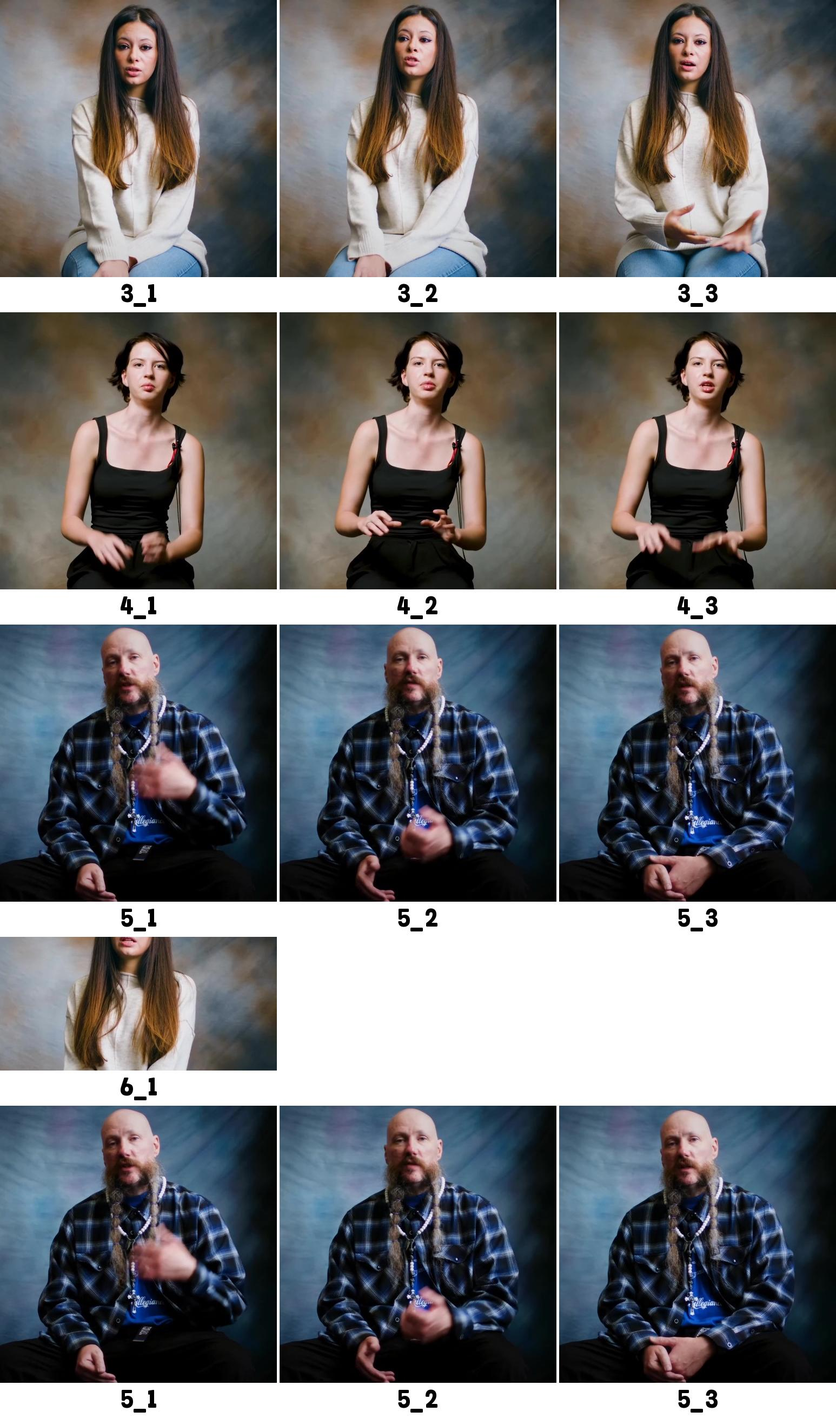
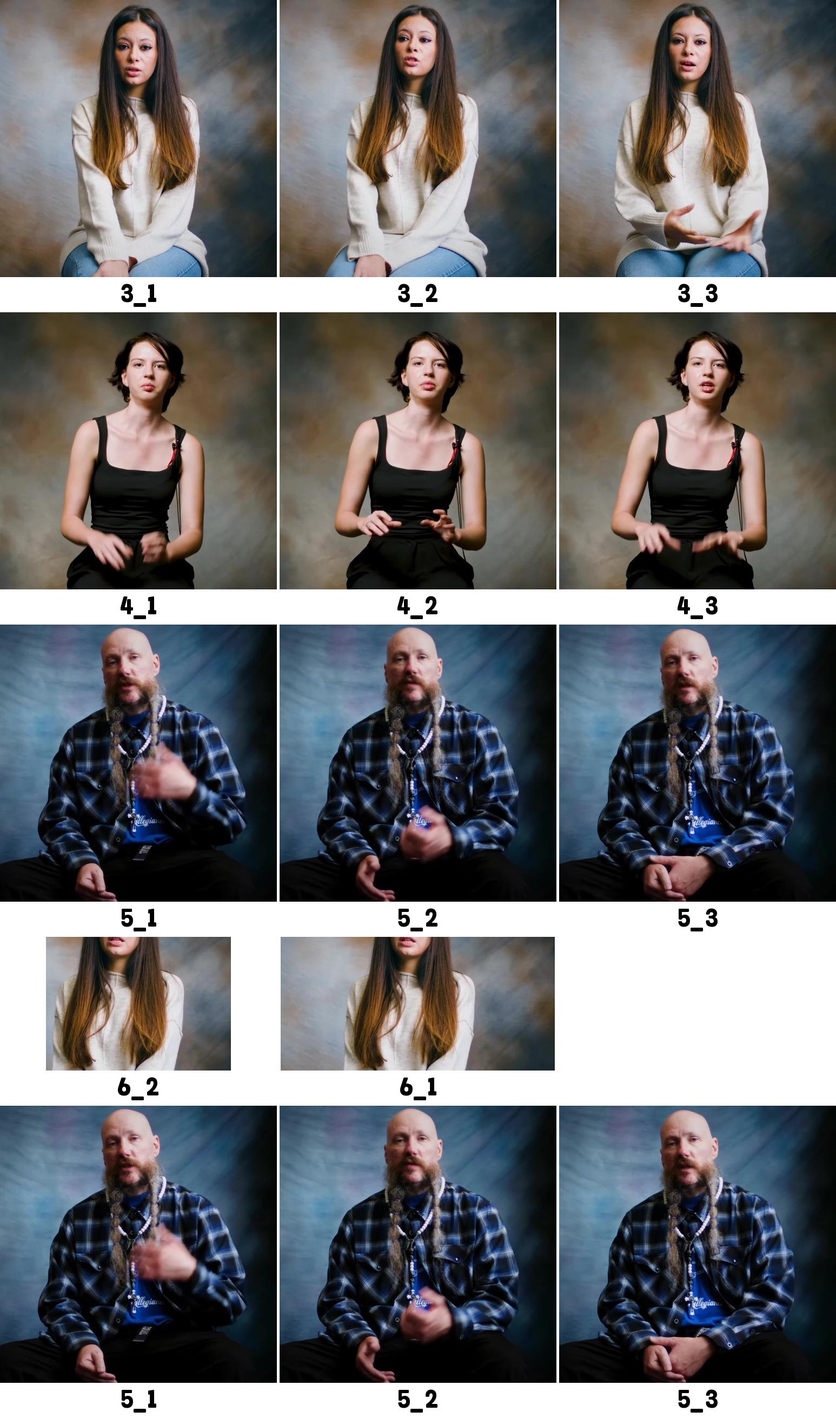
commit version 4.4

Changed region(s): [[0.0, 0.6492, 0.6831, 0.7729]]

diff --git a/14 Multi-Image-To-One/run.py b/14 Multi-Image-To-One/run.py
@@ -54,8 +54,13 @@ def create_collage_with_text(images_with_text, font_path, font_size, font_color,
                 continue
             img_path, text = item
             img = Image.open(img_path)
-            img = img.resize((tile_width, current_row_height), Image.LANCZOS)
+            new_width = int(img.size[0] * (current_row_height / img.size[1]))  # 等比例缩放图片
+            if new_width < tile_width:
+                x_offset += (tile_width - new_width) // 2  # 计算x偏移，使图片居中
+            img = img.resize((new_width, current_row_height), Image.LANCZOS)
             new_im.paste(img, (x_offset, y_offset))
+            if new_width < tile_width:
+                x_offset -= (tile_width - new_width) // 2  # 恢复 方便文本居中
 
             # 如果存在文本，将其绘制在图片下方
             if text:
@@ -147,7 +152,7 @@ images_with_text = [
     [('resource/3_512crop_Moment1.jpg', '3_1'), ('resource/3_512crop_Moment2.jpg', '3_2'), ('resource/3_512crop_Moment3.jpg', '3_3')],
     [('resource/4_512crop_Moment1.jpg', '4_1'), ('resource/4_512crop_Moment2.jpg', '4_2'), ('resource/4_512crop_Moment3.jpg', '4_3')],
     [('resource/5_512crop_Moment1.jpg', '5_1'), ('resource/5_512crop_Moment2.jpg', '5_2'), ('resource/5_512crop_Moment3.jpg', '5_3')],
-    [('resource/6_special.jpg', '6_1')],
+    [('resource/6_special2.jpg', '6_2'), ('resource/6_special1.jpg', '6_1'),],
     [('resource/5_512crop_Moment1.jpg', '5_1'), ('resource/5_512crop_Moment2.jpg', '5_2'), ('resource/5_512crop_Moment3.jpg', '5_3')],
     # ... 更多图片和文本
 ]

diff --git a/README.md b/README.md
@@ -10,7 +10,7 @@
 
 <p align="center">
     <img alt="GitHub" src="https://img.shields.io/badge/license-Apache%202.0-blue">
-    <img alt="GitHub release (latest by date)" src="https://img.shields.io/badge/Version-4.3-green">
+    <img alt="GitHub release (latest by date)" src="https://img.shields.io/badge/Version-4.4-green">
 </p>
 
 
@@ -29,11 +29,13 @@
 
 💡 欢迎志同道合的同学积极联系一同参与工具建设！
 
-Tips：**我们希望[每个月底]坚持分享一个小知识来积累可视化技术的成长，由于平日有繁重学业压力，更新内容不会一次性更新太多，但积少成多，欢迎加入我们。**
+Tips：**我们希望坚持分享一个小知识来积累可视化技术的成长，由于平日有繁重学业压力，更新内容不会一次性更新太多，但积少成多，欢迎加入我们。近期面临秋招/申博，因此进度有些放缓，但会挤时间坚持，如果有合作意向可以邮件联系（WinniyGD@outlook.com）。**
 
 ## 新闻
 
-**[2024/04/27] [v4.3版本](https://github.com/Winn1y/Show2Know/): 更新 实现论文中批量组合多个小图片脚本用于快速example展示[14 Multi-Image-To-One] 知识点 (by Winniy)**
+**[2024/05/26] [v4.4版本](https://github.com/Winn1y/Show2Know/): 更新 水平波动线 知识点 (by Venchili)**
+
+[2024/04/27] [v4.3版本](https://github.com/Winn1y/Show2Know/tree/4.3): 更新 实现论文中批量组合多个小图片脚本用于快速example展示[14 Multi-Image-To-One] 知识点 (by Winniy)**
 
 [2024/03/29] [v4.2版本](https://github.com/Winn1y/Show2Know/tree/4.2): 更新 JoyPlot 重叠山峦图 知识点 (by Venchili)
 
